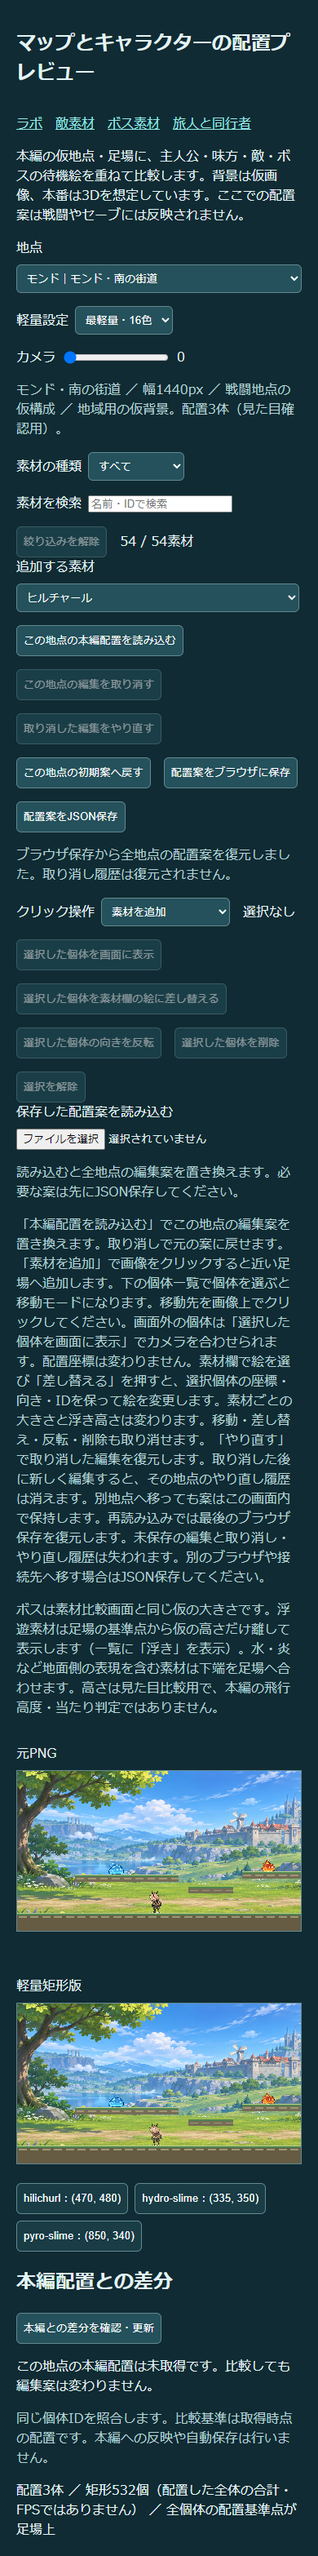
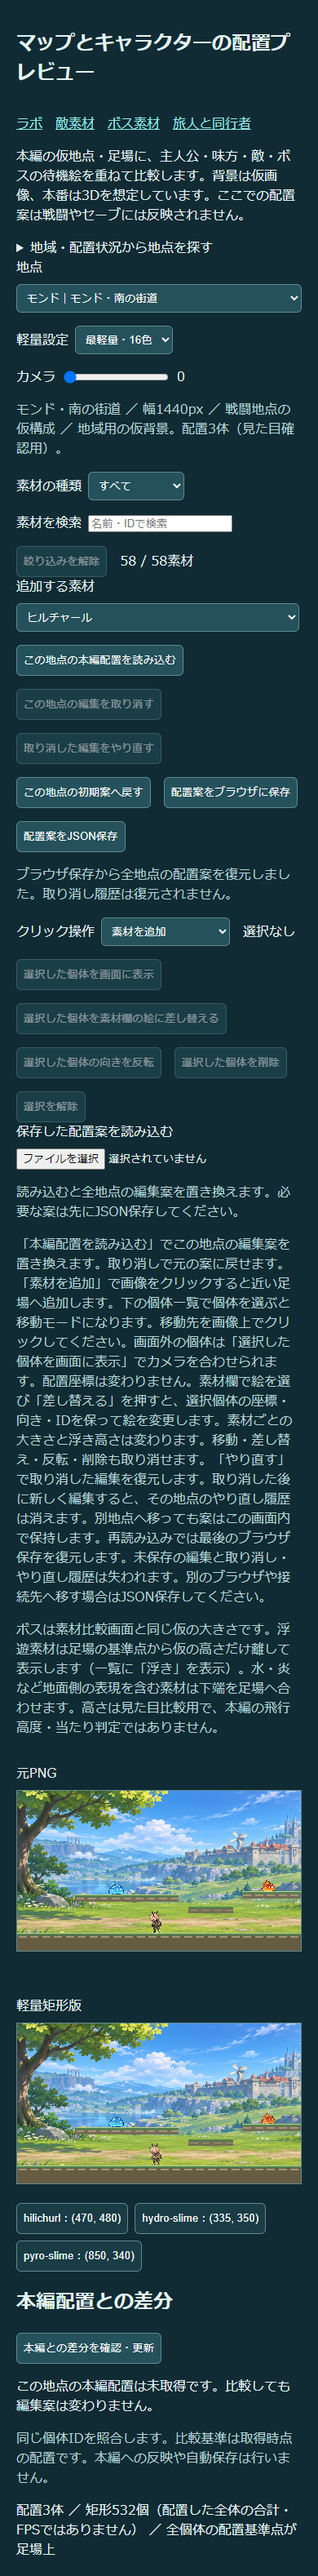
Add region and placement-count navigation for map drafts

diff --git a/map-node-picker.js b/map-node-picker.js
@@ -1,0 +1,33 @@
+// Navigation only: filters never change the active map or placement draft.
+export function setupMapNodePicker({graph,select,getDraft,onChoose}){
+ const panel=document.createElement('details');panel.id='mapNodePicker';
+ const summary=document.createElement('summary');summary.textContent='地域・配置状況から地点を探す';
+ const controls=document.createElement('div');controls.className='controls';
+ const field=(text,input)=>{const label=document.createElement('label');label.append(text,input);controls.append(label)};
+ const region=document.createElement('select');region.id='nodeRegion';
+ for(const value of ['',...new Set(graph.nodes.map(n=>n.region))]){const o=document.createElement('option');o.value=value;o.textContent=value||'すべての地域';region.append(o)}
+ const search=document.createElement('input');search.id='nodeSearch';search.type='search';search.placeholder='地点名・地域で検索';
+ const populated=document.createElement('select');populated.id='nodePlacementFilter';
+ for(const [value,label] of [['all','すべて'],['placed','配置あり'],['empty','配置なし']]){const o=document.createElement('option');o.value=value;o.textContent=label;populated.append(o)}
+ field('地域 ',region);field('検索 ',search);field('編集中の案 ',populated);
+ const clear=document.createElement('button');clear.type='button';clear.textContent='地点の絞り込みを解除';clear.id='clearNodeSearch';controls.append(clear);
+ const status=document.createElement('p');status.id='nodeSearchStatus';status.setAttribute('role','status');
+ const list=document.createElement('div');list.id='nodeSearchResults';list.className='controls';
+ const note=document.createElement('p');note.className='note';note.textContent='数はこの画面の配置案です。本編の配置数やマップの完成度ではありません。絞り込みだけでは表示地点は変わりません。';
+ panel.append(summary,controls,status,list,note);select.closest('.controls').before(panel);
+ const normalize=s=>s.normalize('NFKC').toLocaleLowerCase('ja');
+ function update(){
+  const drafts=getDraft(),terms=normalize(search.value).trim().split(/\s+/).filter(Boolean);
+  const count=n=>drafts.nodes[n.id]?.length??0;
+  const matches=graph.nodes.filter(n=>(!region.value||n.region===region.value)&&terms.every(t=>normalize(n.name+' '+n.region+' '+n.id).includes(t))&&(populated.value==='all'||(populated.value==='placed'?count(n)>0:count(n)===0)));
+  const active=graph.nodes.find(n=>n.id===select.value),placed=graph.nodes.filter(n=>count(n)>0).length;
+  status.textContent=`${matches.length} / ${graph.nodes.length}地点 ／ 配置あり ${placed}地点 ／ 表示中：${active?.name??''}${matches.some(n=>n.id===select.value)?'':'（絞り込み対象外）'}`;
+  list.replaceChildren();
+  for(const n of matches){const button=document.createElement('button');button.type='button';button.dataset.node=n.id;button.textContent=`${n.region}｜${n.name}：${count(n)}体`;button.setAttribute('aria-pressed',String(n.id===select.value));button.onclick=()=>{select.value=n.id;onChoose()};list.append(button)}
+  if(!matches.length){const empty=document.createElement('p');empty.textContent='該当する地点がありません。絞り込みを解除してください。';list.append(empty)}
+  clear.disabled=!region.value&&!search.value&&populated.value==='all';
+ }
+ region.onchange=update;search.oninput=update;populated.onchange=update;
+ clear.onclick=()=>{region.value='';search.value='';populated.value='all';update()};
+ return {update};
+}

diff --git a/map-art.js b/map-art.js
@@ -1,3 +1,4 @@
+import {setupMapNodePicker} from './map-node-picker.js';
 import {loadImageSet} from './sprite-images.js';
 import {setupPlacementPicker} from './placement-picker.js';
 import {scenery,sceneryKey,sceneryDefinitions,sceneryStatus,backgroundReady} from './scenery.js';
@@ -48,6 +49,7 @@ try{
  };
  let lastRenderedDraft=JSON.stringify(drafts);
  for(const n of graph.nodes){const option=document.createElement('option');option.value=n.id;option.textContent=`${n.region}｜${n.name}`;$('node').append(option)}$('node').value='mond-road';
+ const nodePicker=setupMapNodePicker({graph,select:$('node'),getDraft:()=>drafts,onChoose:select});
  function node(){return nodes.get($('node').value)}
  function placements(){return drafts.nodes[node().id]??=[]}
  function render(){
@@ -73,6 +75,7 @@ try{
   const describe=e=>`${e.species} (${e.x}, ${e.y}) ${e.flip?'反転':'元の向き'}`;
   const line=text=>{const li=document.createElement('li');li.textContent=text;$('diffDetails').append(li)};
   if(diff){for(const e of diff.added)line(`追加 ${e.id}：${describe(e)}`);for(const e of diff.removed)line(`削除 ${e.id}：${describe(e)}`);for(const e of diff.changed){const names={species:'敵種',x:'横位置',y:'足場の高さ',flip:'向き'};line(`変更 ${e.id}［${e.fields.map(k=>names[k]).join('・')}］：${describe(e.before)} → ${describe(e.after)}`)}}
+  nodePicker.update();
   window.mapArt={diff,ready:true,node:n.id,nodeCount:nodes.size,camera,profile,count:items.length,selected,editMode:$('editMode').value,placements:structuredClone(items),visuals:items.map(e=>({id:e.id,y:e.y-assets[e.species].hover,hover:assets[e.species].hover,height:assets[e.species].h})),grounded:valid,background:sceneryKey(frame),backgroundFallback:!mapped,backgroundState:background.state,backgroundFile:background.file};
  }
  function remember(id){const history=histories[id]??=[];history.push(structuredClone(drafts.nodes[id]??[]));if(history.length>100)history.shift();delete redos[id]}

diff --git a/CHAT_HANDOFF.md b/CHAT_HANDOFF.md
@@ -369,3 +369,6 @@ map-art.html追加: 本編61仮地点の足場/背景を選択し、元PNGと軽
 
 
 2026-11-17: 暴君・金焔のクク竜の通常赤姿待機候補を追加。HoYoWiki6584の顔/全身/ゲーム内通常/金色飛行を直接確認し通常3画像を生成参照へ使用、金色姿を除外。対応3D/背面未確認。2翼前肢と2後脚/高い橙冠/青緑頬と爪/白い翼模様を確認。元絵10448画素の中央値#6ab3c3を既存32/16色枠内に予約、原本不変。180/135/90px=9599/6176/2642矩形（72.48%減、FPSではない）。36ボス40候補の3設定3倍率左右・配置・JSON読戻・undo・390px検査通過。最終単体/仮背景を目視し透過正常、最軽量の頬/爪/目/翼の細線は小さく弱い。参照より直立し冠と翼が広い、尾はほぼ隠れ、遠近のため全爪は同じ床線に揃わない。表示180は仮。技/金色形態/飛行アニメ/本編配置未実装。根拠 evidence/qucusaur-reference-audit.json, evidence/qucusaur-comparison.png。
+
+
+2026-11-17: 配置画面に61地点の検索一覧を追加。折りたたみ内で地域/名前・IDのNFKC複数語/配置ありなしを組合せ可能。絞り込みのみで表示地点/配置/保存状態を変えず、ボタン押下で地点移動。各地点の編集中の配置数と配置あり地点数を表示し、本編数/完成度と区別。追加/削除/undo/redo/JSON読込/ブラウザ保存再読込に数が追従。現在地が検索対象外でも移動しないことを検証。61件、地域絞り込み、検索0件、既存履歴検査、390px横溢れなしを通過し画面も目視。技/本編地形/配置内容は変更なし。根拠 evidence/map-node-picker-test.json, evidence/map-node-picker-mobile.png。
